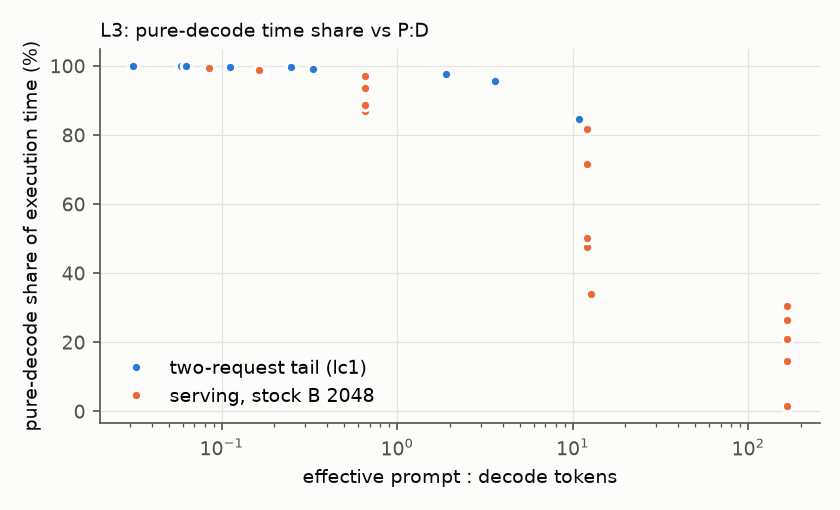
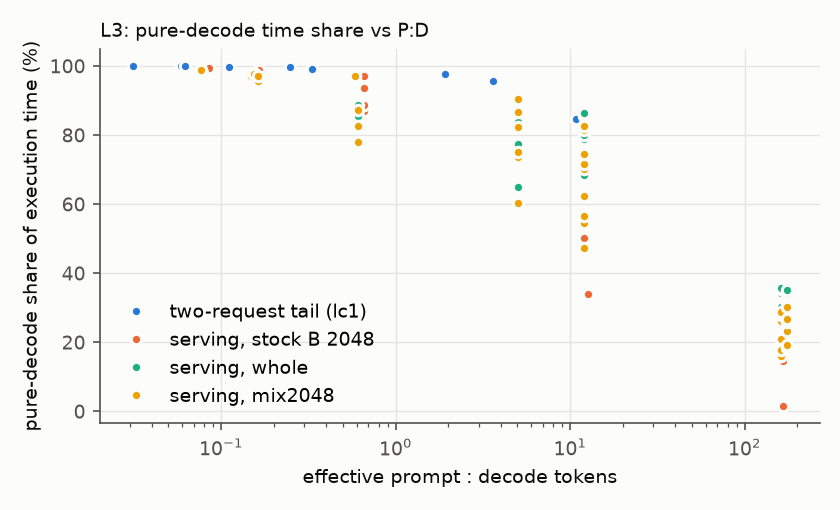
lc campaign: lc2 results in report (serving, counter audit, FETCH re-run), stall-aware goodput figures, audit-judgment and 7B-SLO analysis fixes
Claude-Session: https://claude.ai/code/session_01HosjJD9Q8QrKxmdMM6TWby

diff --git a/scripts/amd/lc/lc_figures.py b/scripts/amd/lc/lc_figures.py
@@ -84,22 +84,32 @@ def fig_pd(points, out):
     fig.savefig(out / 'l3_decode_share_vs_pd.png', dpi=150)
 
 
-def fig_goodput(series, out, name):
-    """series: {workload: {policy: [(rate, goodput)]}}"""
+POL_ORDER = ['whole', 'sep2048', 'mix256', 'mix512', 'mix1024', 'mix2048', 'mix4096', 'mix8192']
+# separate policies in neutral ink (whole dashed so a tie with sep2048 stays visible); mixed budgets in fixed hue order
+POL_STYLE = {'whole': (INK, '--'), 'sep2048': (INK2, '-'), 'mix256': (SER[0], '-'), 'mix512': (SER[2], '-'),
+             'mix1024': (SER[3], '-'), 'mix2048': (SER[1], '-'), 'mix4096': (SER[6], '-'), 'mix8192': (SER[4], '-')}
+
+
+def fig_goodput(series, out, name, rows=(('goodput_rps', 'SLO goodput (rps)'),)):
+    """series: {workload: {policy: {key: [(rate, value)]}}}; one row of panels per key"""
     wls = list(series)
-    fig, axs = plt.subplots(1, len(wls), figsize=(3.2 * len(wls), 3.0), squeeze=False)
-    pols = sorted({p for w in wls for p in series[w]}, key=lambda p: (p != 'whole', p != 'sep2048', len(p), p))
-    for ax, w in zip(axs[0], wls):
-        for p, v in series[w].items():
-            by = {}  # mean over seeds at each offered rate
-            for x, y in v:
-                by.setdefault(x, []).append(y)
-            v = sorted((x, sum(ys) / len(ys)) for x, ys in by.items())
-            ax.plot([x for x, _ in v], [y for _, y in v], color=SER[pols.index(p) % 8], marker='o', label=p,
-                    markeredgecolor='#fcfcfb', markeredgewidth=1.2)
-        ax.set_title(w, fontsize=9, loc='left', color=INK)
-        ax.set_xlabel('offered load (rps)')
-    axs[0][0].set_ylabel('SLO goodput (rps)')
+    fig, axs = plt.subplots(len(rows), len(wls), figsize=(3.2 * len(wls), 2.8 * len(rows)), squeeze=False)
+    for i, (key, lab) in enumerate(rows):
+        for ax, w in zip(axs[i], wls):
+            for p in sorted(series[w], key=lambda p: POL_ORDER.index(p) if p in POL_ORDER else 99):
+                by = {}  # mean over seeds at each offered rate
+                for x, y in series[w][p].get(key, []):
+                    by.setdefault(x, []).append(y or 0)
+                v = sorted((x, sum(ys) / len(ys)) for x, ys in by.items())
+                if not v:
+                    continue
+                c, ls = POL_STYLE.get(p, (SER[7], '-'))
+                ax.plot([x for x, _ in v], [y for _, y in v], color=c, ls=ls, marker='o', label=p, markeredgecolor='#fcfcfb',
+                        markeredgewidth=1.2, lw=1.6 if ls == '-' else 2.2)
+            ax.set_title(f'{w}' + ('' if i == 0 else ' (max ITL <= 1 s)'), fontsize=9, loc='left', color=INK)
+            if i == len(rows) - 1:
+                ax.set_xlabel('offered load (rps)')
+        axs[i][0].set_ylabel(lab)
     axs[0][-1].legend(loc='upper left', bbox_to_anchor=(1.0, 1.0), fontsize=8)
     fig.tight_layout()
     fig.savefig(out / f'{name}.png', dpi=150)
@@ -122,11 +132,14 @@ def main(a):
         for r in (sv.get('rows', []) if isinstance(sv, dict) else sv):
             if r.get('effective_p_to_d') and r.get('policy') in ('mix2048', 'whole'):
                 pts.append((f"serving, {r['policy']}", r['effective_p_to_d'], r['step_fraction_time'].get('decode', 0)))
-            good.setdefault(r['experiment'], {}).setdefault(r['workload'], {}).setdefault(r['policy'], []).append(
-                (r['rate'], r['goodput_rps']))
+            g = good.setdefault(r['experiment'], {}).setdefault(r['workload'], {}).setdefault(r['policy'], {})
+            for k in ('goodput_rps', 'goodput_stall1000_rps'):
+                if k in r:
+                    g.setdefault(k, []).append((r['rate'], r[k]))
     fig_pd(pts, a.out)
     for exp, s in good.items():
-        fig_goodput(s, a.out, f'goodput_{exp}')
+        fig_goodput(s, a.out, f'goodput_{exp}', (('goodput_rps', 'SLO goodput (rps)'),
+                                                  ('goodput_stall1000_rps', 'goodput, stall cap (rps)')))
     print('figures ->', a.out)
 
 

diff --git a/scripts/amd/lc/lc_analyze.py b/scripts/amd/lc/lc_analyze.py
@@ -464,11 +464,17 @@ def audit_judgment(aud):
     MALL-resident <= 0.25."""
     by = collections.defaultdict(lambda: collections.defaultdict(list))
     for r in aud.get('runs', []):
-        if r.get('returncode') == 0 and r.get('counter_total') is not None:
+        if r.get('returncode') == 0 and r.get('counter_total') is not None and r.get('ratio'):
             by[r['counter']][r['load']].append(r['ratio'])
     out = {}
     for c, loads in by.items():
-        unit = 'KiB' if c.endswith('_SIZE') else 'req64'
+        # unit: KiB for *_SIZE; otherwise the request size whose streaming-read ratio is nearest 1 (stated, not assumed)
+        unit = 'KiB'
+        if not c.endswith('_SIZE'):
+            def dist(u):
+                v = med([x.get(u) for x in loads.get('read1g_x4', [])])
+                return abs(v - 1) if v is not None else 9e9
+            unit = min(('req32', 'req64', 'req128'), key=dist)
         f = lambda ld: med([x.get(unit) for x in loads.get(ld, [])])  # noqa: E731
         s1, s2, m, l2 = f('read1g_x4'), f('read4g_x1'), f('read128m_x16'), f('read8m_x256')
         w = med([x.get(unit) for x in loads.get('write4g', [])])

diff --git a/docs/amd/lc_campaign_results_20261124.md b/docs/amd/lc_campaign_results_20261124.md
@@ -1,12 +1,12 @@
 # Long-context and long-output chunked prefill on MI300X — results
 
-Status: **DRAFT (lc1 in; lc2 running; lc3 pending)**. Design and pre-registration: `docs/amd/lc_campaign_design_20261124.md`
-(amendments 1–2). Handoff: `docs/amd/long_context_chunked_prefill_20261124.md`. Baseline: the November 18 campaign.
+Status: **DRAFT (lc1 and lc2 in; lc3 running)**. Design and pre-registration: `docs/amd/lc_campaign_design_20261124.md`
+(amendments 1–3). Handoff: `docs/amd/long_context_chunked_prefill_20261124.md`. Baseline: the November 18 campaign.
 
 All numbers: Qwen2.5-32B, BF16, one MI300X per lane (TP1), vLLM 0.23.0 V1 in process, ROCM_ATTN, CUDA graphs
 FULL_AND_PIECEWISE ≤ 512 tokens unless "eager". 256 KiB of KV per token, 64 GB of weights. Clocks are not controlled.
 Medians, with paired bootstrap 95% CIs where stated. Sources: `results_published/amd_20261124_mi300x_lc_lc1/lc_tables.json`
-(job 547842), lc2 and lc3 to follow.
+(job 547842) and `results_published/amd_20261125_mi300x_lc_lc2/lc_tables.json` (job 548920); lc3 to follow.
 
 ## 0. Answers in one paragraph each (lc1 scope; serving answers pending lc2/lc3)
 
@@ -53,6 +53,8 @@ Failed acquisitions (kept, raw under the run root):
 - `lc4_pmc_{WRITE_SIZE, TCC_EA0_RDREQ_DRAM_sum}` attempt 1: execution failures. Attempt 2 of each completed.
 - `lc4_pmc_FETCH_SIZE`: illegal memory access in the S = 32 000, N = 8 cell on both attempts. Re-run in lc2 (amendment 2).
 - `lc4_counter_audit`: exit 0, but 0 / 208 runs saw a device (launcher bug, fixed). Re-run in lc2.
+- lc2: 8 serving steps (`lc5d_*`) hit `hipErrorLaunchFailure` on attempt 1 and completed on attempt 2; kept. Both
+  re-runs (FETCH_SIZE S 32 000 N 8 split out; counter audit) completed.
 - Smoke 547179 (harness id-suffix bug), kept. The smoke anchor ran on a faster-clocked node (amendment 1).
 
 ## 2. L1 — chunked vs whole prefill
@@ -156,17 +158,55 @@ power-managed clock reduction that a bandwidth-only model does not have.
 
 | counter | unit | observation point | evidence |
 |---|---|---|---|
-| FETCH_SIZE | KiB | TCC (L2) → EA read requests, before MALL / Infinity Cache | G4 audit: streaming ≈ 1×, MALL-resident ≈ 1× (not filtered by MALL). Pure decode N 1, S 8 K: 66.2 GB vs 66.1 GB logical |
-| WRITE_SIZE | KiB | L2 → EA write requests | G4 audit |
+| FETCH_SIZE | KiB | TCC (L2) → EA read requests, before MALL / Infinity Cache | lc2 audit: 1.000× useful bytes for 1 GiB and 4 GiB streaming reads, **0.999× for a 128 MiB MALL-resident read** (not filtered by MALL), 0.004× for an 8 MiB L2-resident read. Long-context re-run, pure decode: 1.00× (N 1, S 1 K) to 1.05× (N 8, S 32 K) of logical bytes |
+| WRITE_SIZE | KiB | L2 → EA write requests | lc2 audit: 1.000× for a 4 GiB streaming write |
+| TCC_EA0_RDREQ(_DRAM), TCC_MISS | 128-byte requests | L2 misses / EA reads, before MALL | lc2 audit: 1.000× streaming, 0.999× MALL-resident |
+| TCC_EA0_WRREQ(_64B, _DRAM) | 64-byte requests | L2 → EA writes | lc2 audit: 1.000× for a 4 GiB write (0.5 per 32 B) |
 | TCC_EA0_RDREQ_DRAM_sum | 128-byte requests (lc1 fit) | L2 → EA reads tagged DRAM-bound, before MALL | × 128 B = 1.00 / 1.04 / 1.05 × logical bytes for pure decode at N·S = 1 K / 131 K / 256 K |
 | SQ_INSTS_VALU_MFMA_MOPS_BF16 | × 512 FLOP | issued MFMA | L1 whole matches analytic linear + attention FLOPs within 4% |
 | HBM bytes | — | **not observable** on this stack (no DF / HBM counters exposed by rocprofv3 here) | — |
 
-Re-audit (lc4_counter_audit_r2) and the FETCH_SIZE long-context cells are pending in lc2.
+Every read counter that passes the streaming test also counts the MALL-resident read at full size, so the audit finds
+**no post-MALL (HBM-side) counter**; 11 candidates tested, 2 reps each. A mixed step with a 1 024-token chunk fetches
+2.3× its logical bytes (C 1024, N 1 / 8, all S: e.g. 153.7 vs 65.6 GB, 191.9 vs 99.7 GB), while the same decoders
+alone fetch 1.00–1.05×. The excess is chunk activation traffic at the request side, and whether it reaches HBM is not
+observable.
 
-## 5. L3 part B and L5 — serving under matched arrivals (pending lc2 / lc3)
+## 5. L3 part B and L5 — serving under matched arrivals
 
-SLO and λ*: amendment 2 table.
+SLO and λ\*: amendment 2 table. Primary SLO: TTFT ≤ 5 × pilot p90 and per-request p95 ITL ≤ 5 × pilot median.
+Secondary (amendment 3) adds each request's **maximum** ITL ≤ 1 000 ms. Sustained rate = highest rate with attainment
+≥ 0.9 and nothing incomplete at it and every lower rate.
+
+### 5.1 Development (lc2, seeds 101 / 102, Poisson): sustained rate under the primary SLO
+
+| workload (P:D) | whole | sep2048 | mix256 | mix512 | mix1024 | mix2048 | mix4096 | mix8192 |
+|---|---|---|---|---|---|---|---|---|
+| lo2048 (0.15) | 0.75 / 0.5 | 0.75 / 0.75 | 0.75 / 0.75 | 0.75 / 0.75 | 0.75 / 0.75 | 0.75 / 0.75 | 0.75 / 0.75 | 0.75 / 0.75 |
+| lctx (12) | ≥ 0.2 / ≥ 0.2 | ≥ 0.2 / ≥ 0.2 | 0.05 / — | — / — | 0.05 / 0.05 | 0.1 / 0.075 | 0.15 / 0.125 | 0.15 / ≥ 0.2 |
+| lprompt (161) | ≥ 0.1 / ≥ 0.1 | ≥ 0.1 / ≥ 0.1 | — | — | — | — | 0.0375 / 0.025 | 0.0375 / 0.025 |
+
+(rps, seed 101 / seed 102; "≥" = censored at the top grid rate; "—" = below 0.9 at the lowest rate.)
+
+L3 part B (seed 101): **lo512 (P:D 0.6)** every mixed budget sustains 3.0 rps vs 2.0 for whole / sep2048 (mixed
+wins one step); **balanced (P:D 5)** whole, sep2048 and mix256 sustain 1.5 vs 1.25 for mix2048 / 4096; **lo4096
+(P:D 0.08)** all five policies are censored at 1.0 rps (2 × λ\*) with identical goodput.
+
+### 5.2 The SLO definition decides the long-prompt answer
+
+Under the primary SLO, separate / whole prefill **beats every chunked budget on long prompts** (lctx, lprompt), and
+the smaller the budget the worse. A chunk co-scheduled with decoders stretches every decode step it shares, so small
+budgets spread a 16–30 K prefill over hundreds of slow steps and push requests' p95 ITL over the limit (mix256 lctx
+p95 ITL 54–230 ms vs 23–38 ms whole). Whole prefill instead stalls decoders once per arriving prompt, which the p95
+metric ignores when the stall is < 5% of a request's gaps. The cost appears in the worst gap: p99 of per-request
+maximum ITL is 3.6–15 s (lctx) and 4.9–28 s (lprompt) for whole, against 0.2–0.4 s for mix256.
+
+With the 1 s stall cap (exploratory on lc2): lctx goodput at 0.05 rps is 0.057 (mix2048) / 0.056 (mix1024) vs 0.019
+for whole and sep2048 (mean of two seeds), and at 0.1 rps 0.088 (mix2048) vs 0.008 (whole, sep2048), so **chunking wins about 3–11×**; lprompt reaches attainment 0.9 at no rate under any policy. The
+short-prompt workloads (lo2048, lo512, lo4096) do not change between the two SLOs. The held-out decision (lc3) is made
+under both and reported side by side.
+
+![goodput lc5d](figs/lc/goodput_lc5d.png)
 
 ## 6. Ranking (pending)
 

diff --git a/docs/amd/lc_campaign_design_20261124.md b/docs/amd/lc_campaign_design_20261124.md
@@ -232,7 +232,7 @@ contradicts the written rule (ties to the smaller budget). The code is corrected
    1000 ms (named threshold), with 250 / 500 / 2000 ms reported as sensitivity. The lc3 decision is made under both;
    the primary SLO stays primary, and a disagreement between the two is reported as a counterexample, not resolved.
    Applied to lc2 the stall view is exploratory (defined after seeing lc2).
-   Exploratory lc2 result under the stall view (same selection rule): lctx picks mix2048 at 1000 ms (goodput 0.114 vs
+   Exploratory lc2 result under the stall view (same selection rule): lctx picks mix2048 at 1000 ms (goodput summed over the two seeds 0.114 vs
    0.037 for whole / sep2048 at 0.05 rps) and mix256 at 250 / 500 ms; lo2048 is unchanged (mix256 / sep2048); for
    lprompt no policy reaches attainment 0.9 at any rate with stalls ≤ 1000 ms. The 1000 ms picks are already in the
    held-out sets below, so no policy is added for them.
